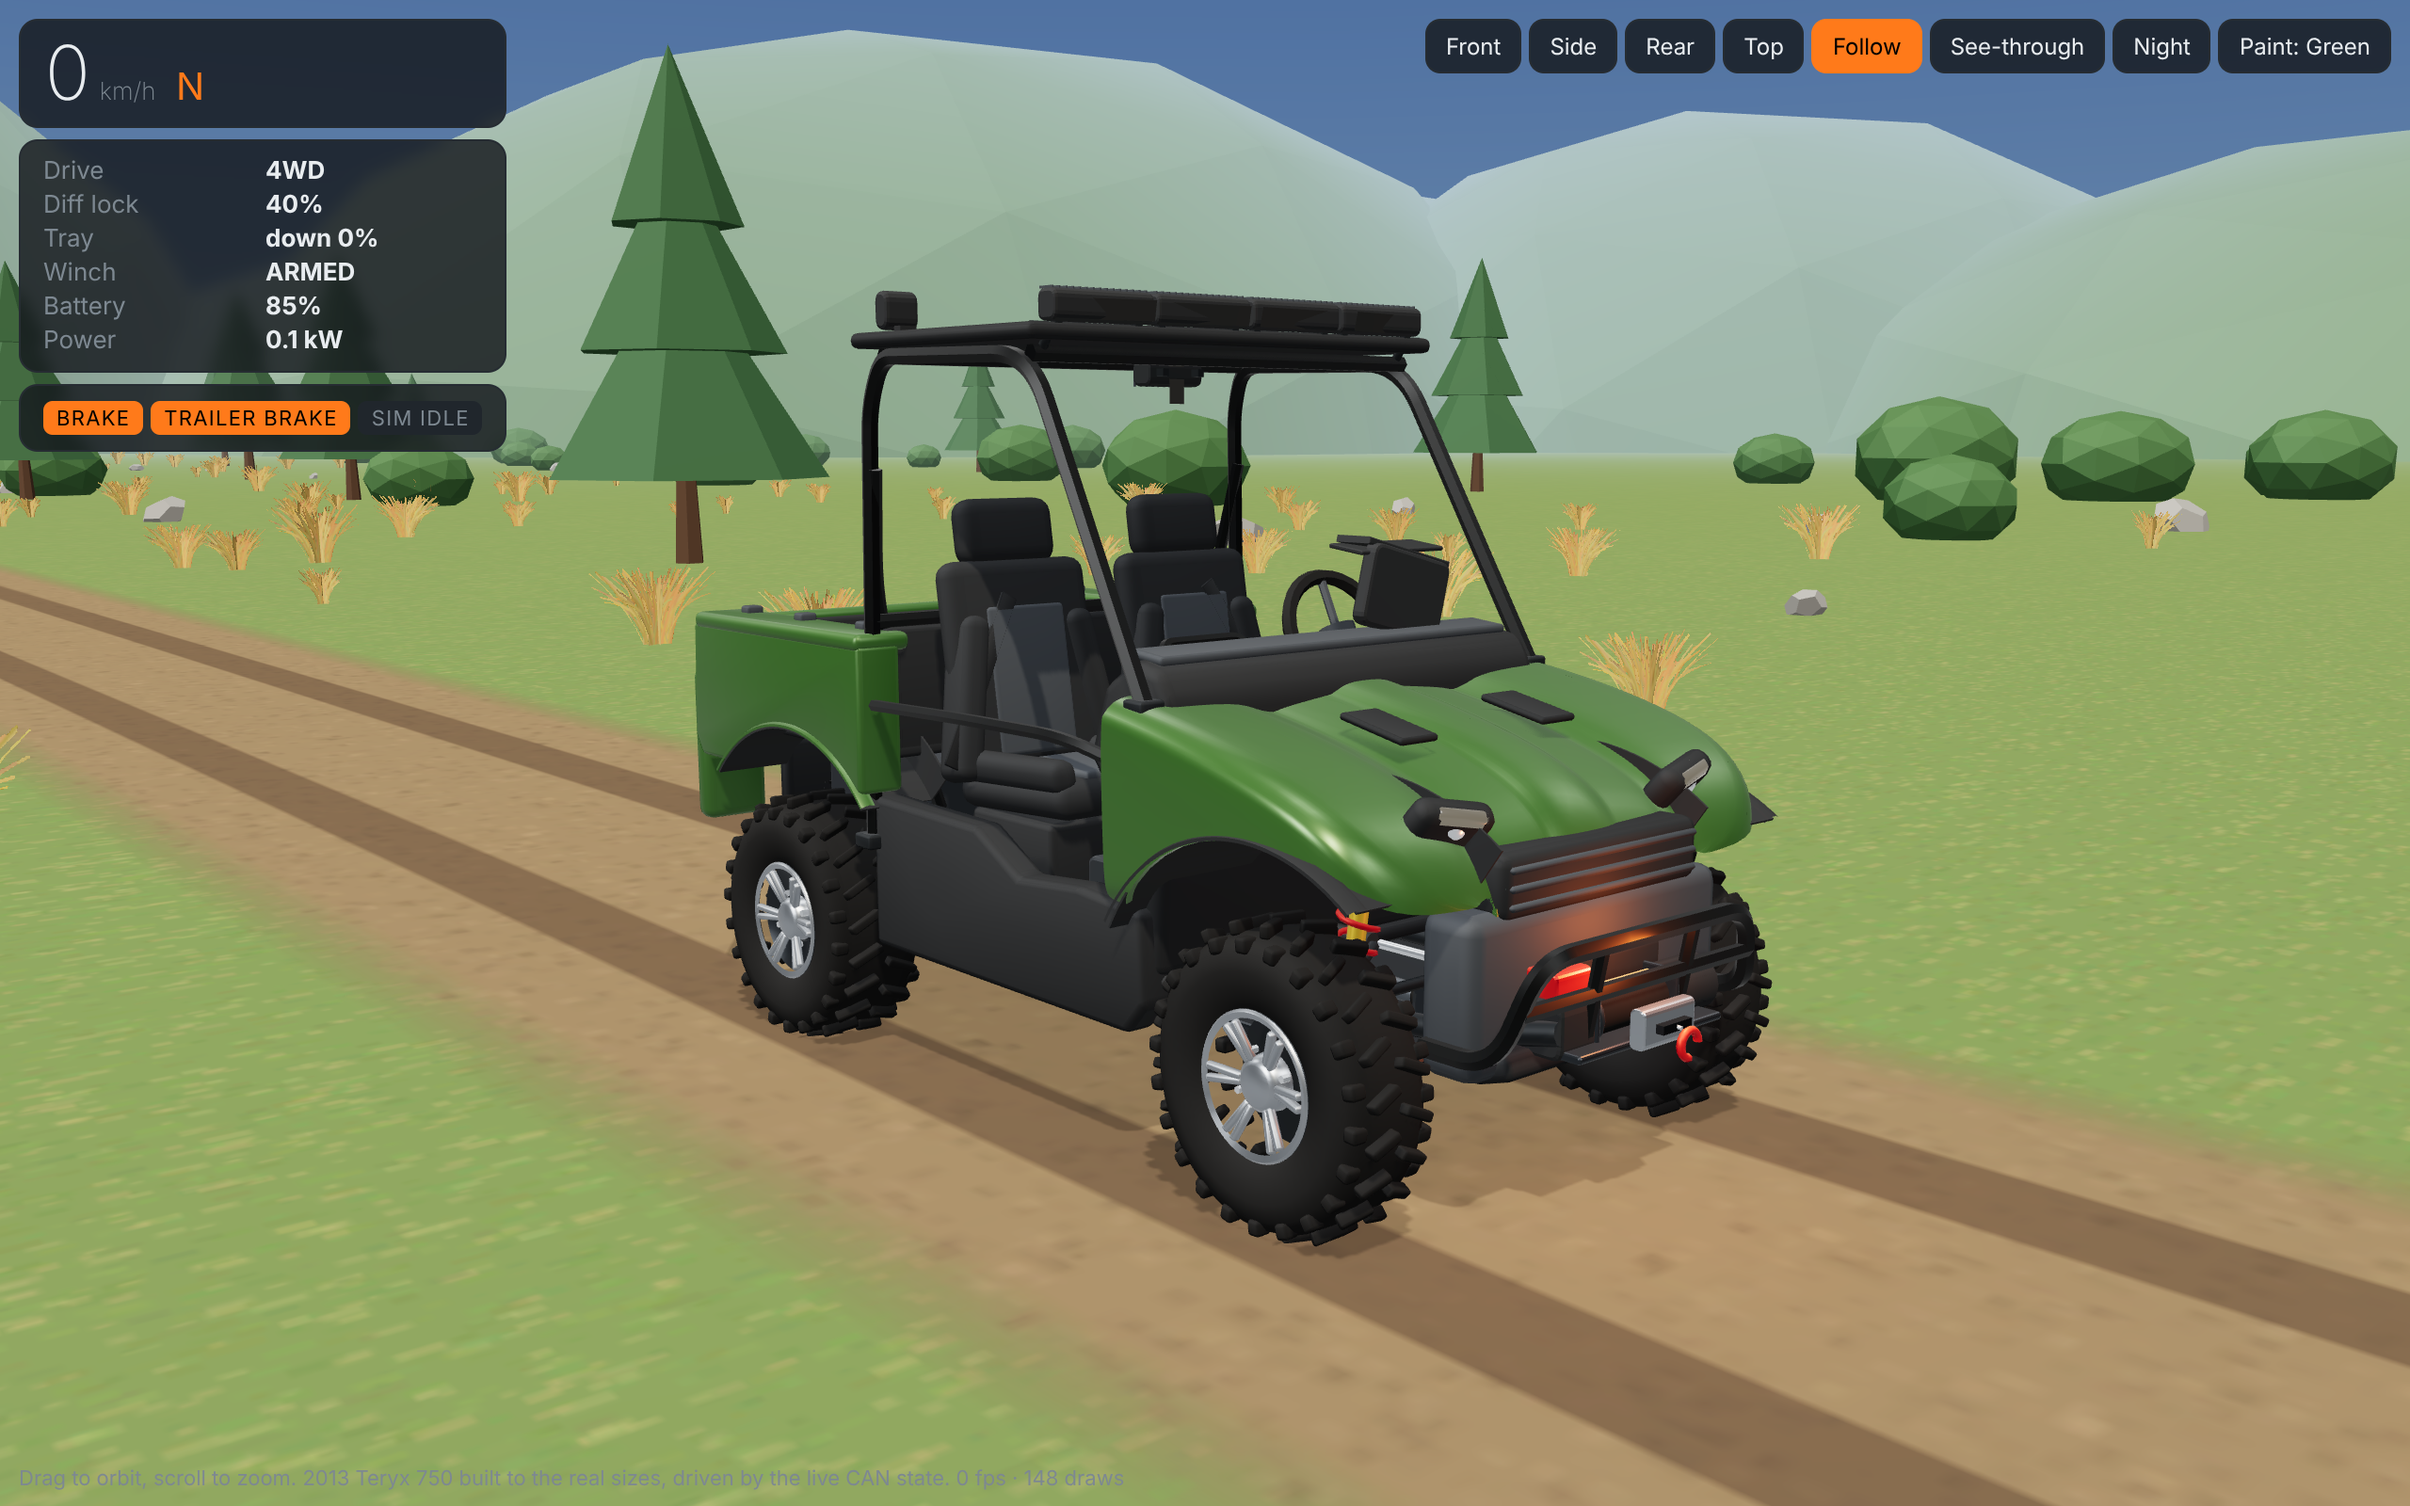
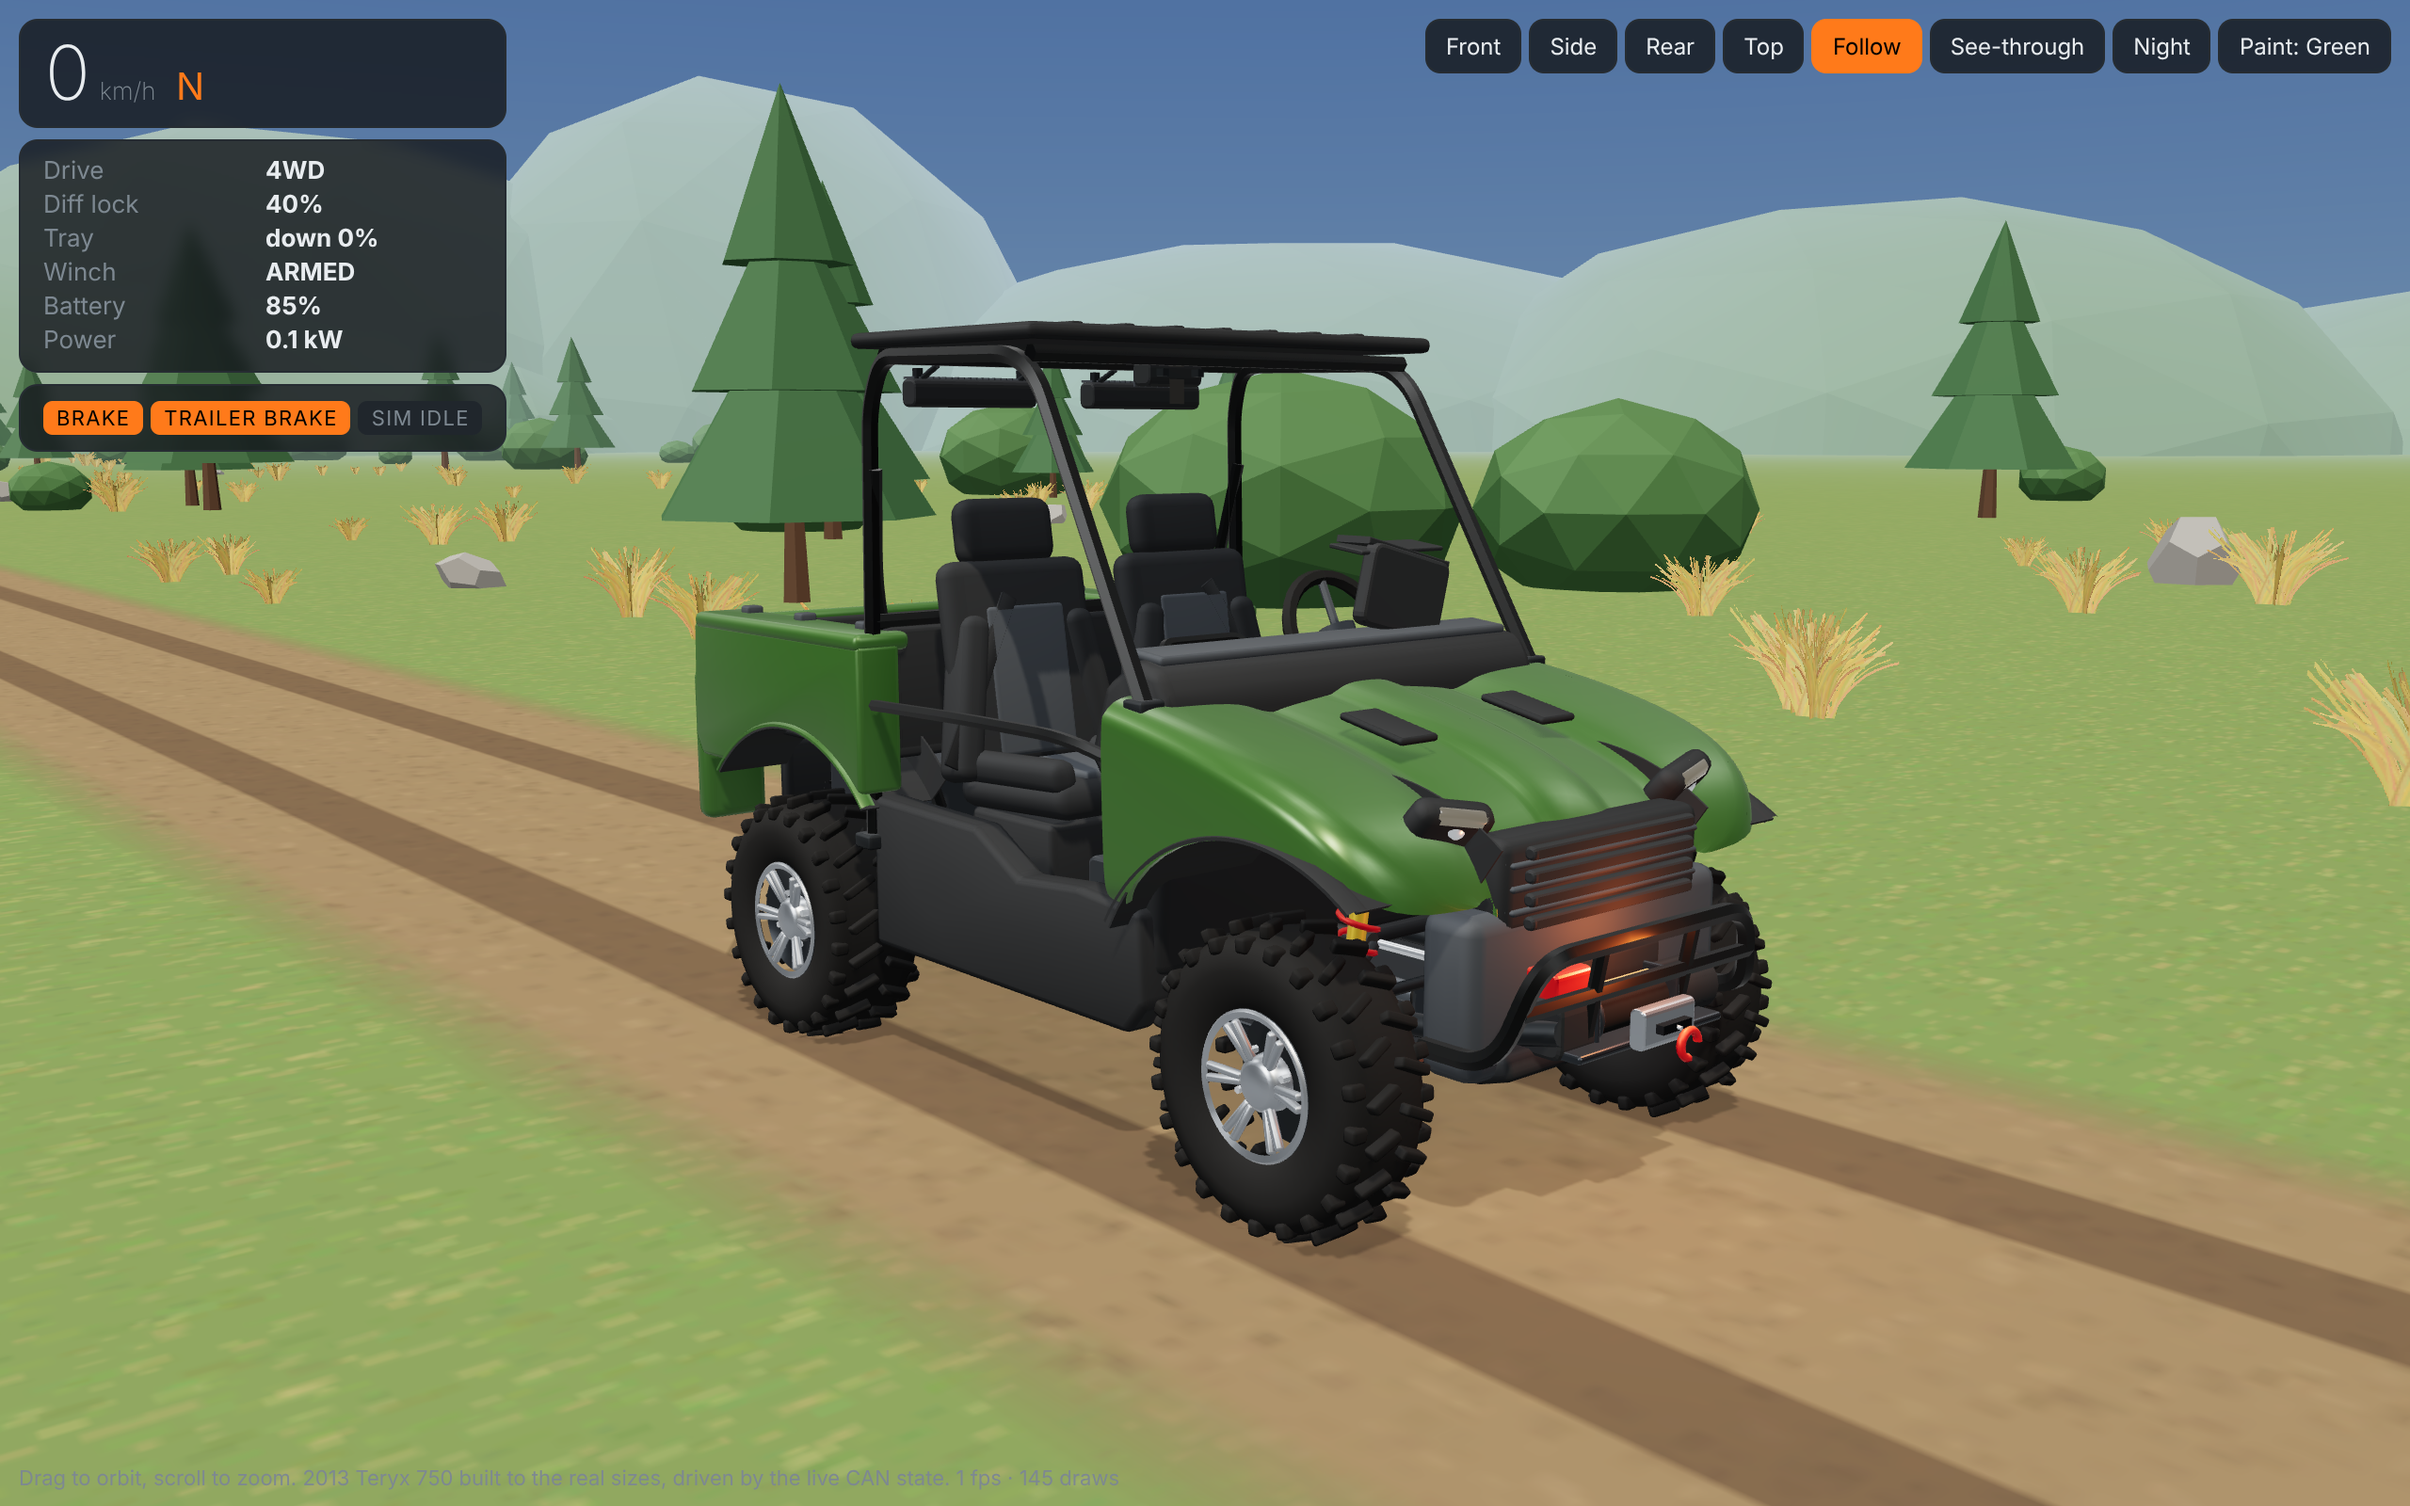
Virtual Teryx: light bars in the front grille, rear bars on the cage
Sam's Teryx has its four front light bars stacked in the gaps of the front
grille, not on the roof. Made the grille taller with three slats, so there
are four gaps, and put a slim bar in each (front_1 at the top). The rear
lights are now two bars hanging off the rear roof bar of the cage, facing
back, still on the rear light control (including on-in-reverse).

Claude-Session: https://claude.ai/code/session_018hTF7yrR4m1TUnCNWKWdY1

diff --git a/teryx/web/virtual/teryx-model.js b/teryx/web/virtual/teryx-model.js
@@ -301,9 +301,8 @@ export function buildTeryx() {
   // moulded roof
   BB.add(rbox(0.86, 0.035, 1.34, 0.12, 0.015), M.plastic, { p: [-0.17, 1.91, 0] });
   for (let i = -3; i <= 3; i++) BB.add(new THREE.BoxGeometry(0.7, 0.012, 0.03), M.plastic, { p: [-0.17, 1.93, i * 0.16] });
-  // light bar bracket on the front roof bar
-  rod(B, [0.14, 1.94, -0.66], [0.14, 1.94, 0.66], 0.012, M.frame);
-  for (const s of [-1, 1]) rod(B, [0.1, 1.88, s * 0.6], [0.14, 1.94, s * 0.6], 0.012, M.frame);
+  // brackets for the rear light bars, hanging off the rear roof bar
+  for (const s of [-1, 1]) for (const e of [-0.16, 0.16]) rod(B, [-0.55, 1.87, s * 0.3 + e], [-0.62, 1.84, s * 0.3 + e], 0.008, M.frame);
 
   // ---------------- rear fenders (body colour), rear panel, hitch, plug
   const rFender = fenderShape(-1.48, -0.62, 0.48,
@@ -513,7 +512,7 @@ export function buildTeryx() {
   const winchGlow = new THREE.PointLight(0xff7a1a, 0, 1.4); winchGlow.position.set(1.51, 0.65, 0); ute.add(winchGlow);
   const winch = { drum, cable, hook, glow: winchGlow, x: 1.52, y: 0.45 };
 
-  // ---------------- lights: 4 roof bars, interior bar, 2 rear pods
+  // ---------------- lights: 4 bars in the front grille, interior bar, 2 rear bars on the cage
   let fadeTex = null;
   function beamFade() {          // beams fade out away from the lamp
     if (fadeTex) return fadeTex;
@@ -523,23 +522,28 @@ export function buildTeryx() {
     g.fillStyle = gr; g.fillRect(0, 0, 4, 128);
     return (fadeTex = new THREE.CanvasTexture(c));
   }
-  function makeLight(x, y, z, w, dir, color = 0xfff2d6, angle = 0.5, dist = 40, pod = false) {
+  // style: "bar" (with mounting feet; hang puts them on top), "slim" (single-row bar in the grille), "pod"
+  function makeLight(x, y, z, w, dir, color = 0xfff2d6, angle = 0.5, dist = 40, style = "bar", hang = false) {
+    const pod = style === "pod", slim = style === "slim";
     const mat = new THREE.MeshStandardMaterial({ color: 0x222222, emissive: color, emissiveIntensity: 0 });
     const g = new THREE.Group(); g.position.set(x, y, z); ute.add(g);
     const lb = new Batch();
     if (pod) {
       lb.add(rbox(0.06, 0.1, 0.1, 0.02, 0.01), M.plastic);
       lb.add(new THREE.BoxGeometry(0.03, 0.06, 0.05), M.plastic, { p: [0.04, -0.07, 0] });
+    } else if (slim) {
+      lb.add(rbox(0.03, 0.03, w, 0.008, 0.006), M.plastic);
     } else {
       lb.add(rbox(0.07, 0.075, w, 0.015, 0.008), M.plastic);
       for (let i = 0; i < Math.round(w / 0.02); i++) lb.add(new THREE.BoxGeometry(0.05, 0.006, 0.004), M.plasticGrey, { p: [-0.01, 0.04, -w / 2 + 0.01 + i * 0.02] });  // fins
-      lb.add(new THREE.BoxGeometry(0.02, 0.03, 0.02), M.frame, { p: [0, -0.05, -w / 2 + 0.03] });
-      lb.add(new THREE.BoxGeometry(0.02, 0.03, 0.02), M.frame, { p: [0, -0.05, w / 2 - 0.03] });
+      const fy = hang ? 0.05 : -0.05;
+      lb.add(new THREE.BoxGeometry(0.02, 0.03, 0.02), M.frame, { p: [0, fy, -w / 2 + 0.03] });
+      lb.add(new THREE.BoxGeometry(0.02, 0.03, 0.02), M.frame, { p: [0, fy, w / 2 - 0.03] });
     }
     lb.build(g, { shadow: false });
-    const lens = new THREE.Mesh(new THREE.PlaneGeometry(pod ? 0.08 : w - 0.02, pod ? 0.08 : 0.05), mat);
+    const lens = new THREE.Mesh(new THREE.PlaneGeometry(pod ? 0.08 : w - 0.02, pod ? 0.08 : slim ? 0.018 : 0.05), mat);
     const d = V(...dir).normalize();
-    lens.lookAt(d); lens.position.copy(d).multiplyScalar(pod ? 0.032 : 0.037);
+    lens.lookAt(d); lens.position.copy(d).multiplyScalar(pod ? 0.032 : slim ? 0.017 : 0.037);
     g.add(lens);
     const spot = new THREE.SpotLight(color, 0, dist, angle, 0.6, 1);
     spot.position.set(x, y, z);
@@ -555,11 +559,13 @@ export function buildTeryx() {
     ute.add(beam);
     return { mat, spot, mesh: g, beamMat };
   }
-  const FRONT_Z = [-0.47, -0.157, 0.157, 0.47];
-  const lightBars = FRONT_Z.map(z => makeLight(0.15, 1.99, z, 0.3, [10, -2.2, z * 4], 0xfff2d6, 0.32, 45));
+  // Sam's Teryx: four slim bars stacked in the gaps of the front grille, front_1 at the top
+  const FRONT_Y = [0.835, 0.785, 0.735, 0.685];
+  const lightBars = FRONT_Y.map(y => makeLight(1.345, y, 0, 0.56, [10, -0.3, 0], 0xfff2d6, 0.4, 45, "slim"));
   const interior = makeLight(-0.15, 1.85, 0, 0.18, [0, -1, 0], 0xffe1b0, 1.1, 4);
   interior.mesh.rotation.z = Math.PI / 2;
-  const rearPods = [-0.55, 0.55].map(z => makeLight(-0.6, 2.01, z, 0.1, [-10, -3, z * 3], 0xffffff, 0.6, 18, true));
+  // rear light bars hang off the rear roof bar of the cage, facing back ("rear pods" on the dash)
+  const rearPods = [-0.3, 0.3].map(z => makeLight(-0.63, 1.8, z, 0.4, [-10, -3, z * 2], 0xffffff, 0.6, 18, "bar", true));
   // stock headlights get a real beam at night
   const headSpot = new THREE.SpotLight(0xfff2d6, 0, 30, 0.45, 0.5, 1);
   headSpot.position.set(1.35, 0.9, 0); headSpot.target.position.set(10, -0.6, 0);

diff --git a/teryx/web/virtual/blender/build_teryx.py b/teryx/web/virtual/blender/build_teryx.py
@@ -334,9 +334,11 @@ for s in (-1, 1):
 # up high in the outer corners of the bonnet, under the guard tops.
 add_box("fascia", 0.16, 0.36, 0.86, "PlasticGrey", (1.25, 0.53, 0), r=0.04)
 add_box("fasciaHole", 0.03, 0.15, 0.4, "Plastic", (1.322, 0.5, 0), r=0.02)
-add_box("grilleBlock", 0.12, 0.15, 0.68, "Plastic", (1.27, 0.76, 0), r=0.03)
+# Sam's four front light bars sit in the four gaps of this grille, one above the
+# other (drawn in teryx-model.js so they can light up)
+add_box("grilleBlock", 0.12, 0.21, 0.68, "Plastic", (1.27, 0.76, 0), r=0.03)
 for i in range(3):
-    add_box(f"slat{i}", 0.03, 0.016, 0.64, "PlasticGrey", (1.325, 0.72 + i * 0.04, 0), r=0.006, seg=1)
+    add_box(f"slat{i}", 0.03, 0.014, 0.64, "PlasticGrey", (1.325, 0.71 + i * 0.05, 0), r=0.005, seg=1)
 add_box("chinSpoiler", 0.12, 0.06, 0.7, "Plastic", (1.3, 0.37, 0), rot=(0, 0, 0.3), r=0.02)
 for s in (-1, 1):
     add_box(f"vent{s}", 0.2, 0.018, 0.12, "Plastic", (0.9, 1.047, s * 0.24), rot=(0, 0, -0.2), r=0.008)
